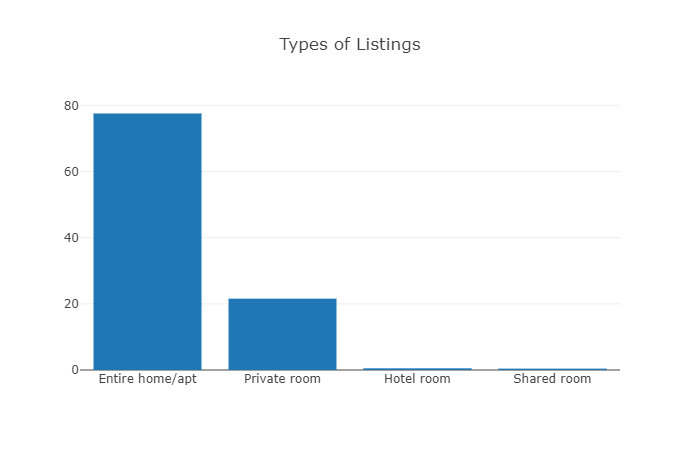
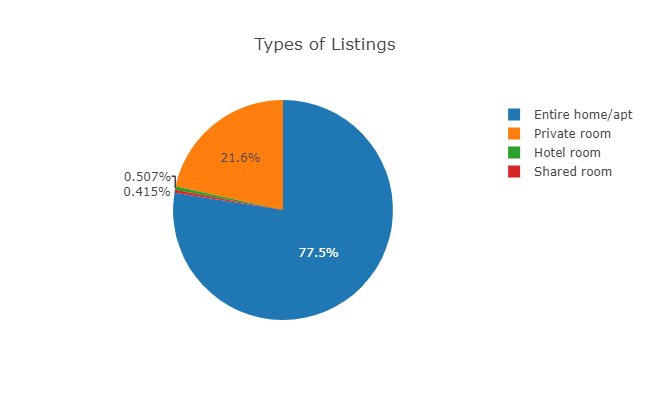
x

diff --git a/static/js/rw_roomtypeplot.js b/static/js/rw_roomtypeplot.js
@@ -13,9 +13,9 @@
     
     // Create the Trace for the bar chart
       var roomTypeTrace = {
-        x: roomTypes,
-        y: roomTypeListings,
-        type: "bar",
+        labels: roomTypes,
+        values: roomTypeListings,
+        type: "pie",
       };
     
     // Create the data array for the plot
@@ -24,8 +24,8 @@
     // Define the plot layout
       var roomTypeLayout = {
         title: "Types of Listings",
-        // innerHeight: 100,
-        // outerHeight: 150
+        height: 400,
+        width: 650
       
       // xaxis: { title: "Room Type" }
       // yaxis: { title: "Room Type" }

diff --git a/templates/rw_dashboard.html b/templates/rw_dashboard.html
@@ -156,7 +156,7 @@
             
         </div>
       </div>
-      <!-- Row 3 for plots 5 & 6 maps ends --> 
+      <!-- Row 4 for plots 5 & 6 maps ends --> 
     </div>
     <br>
     <br>
